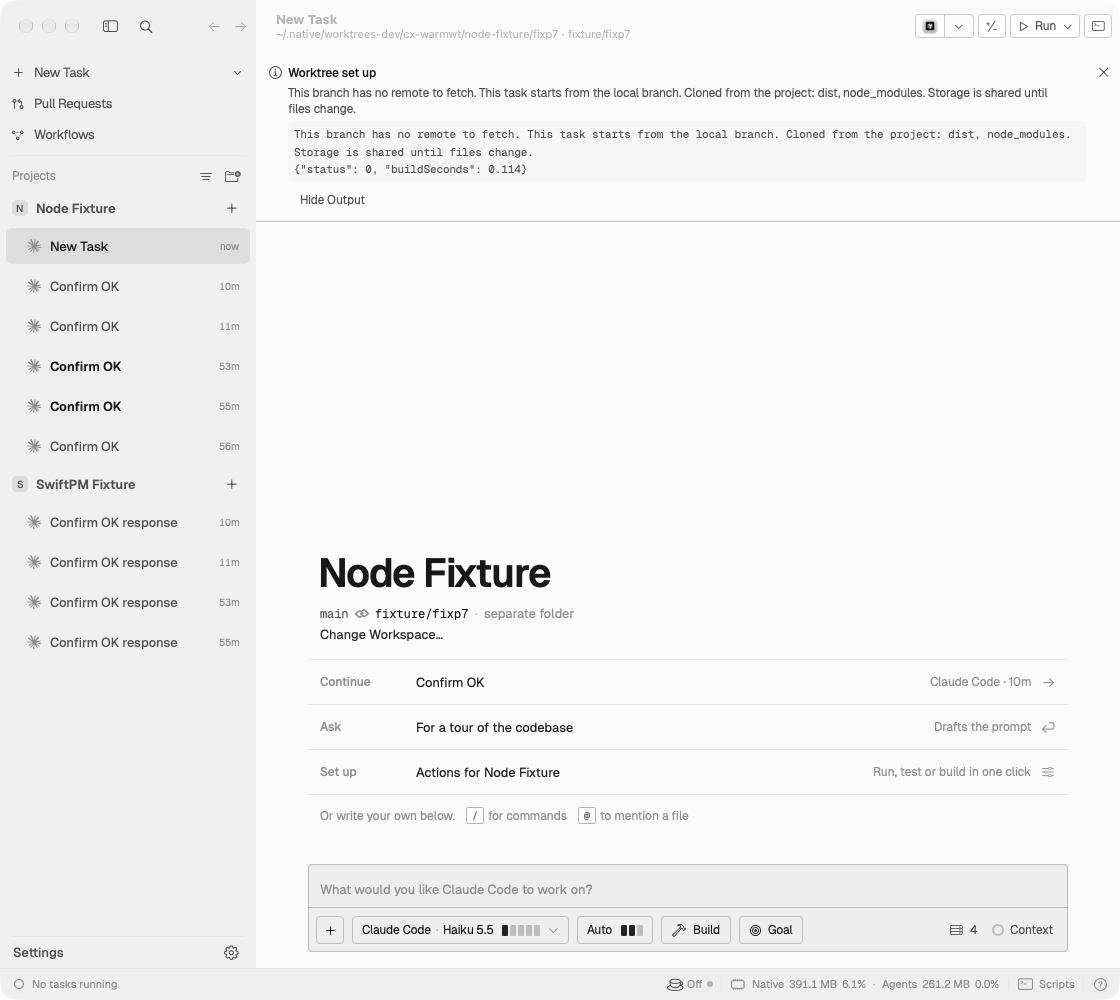
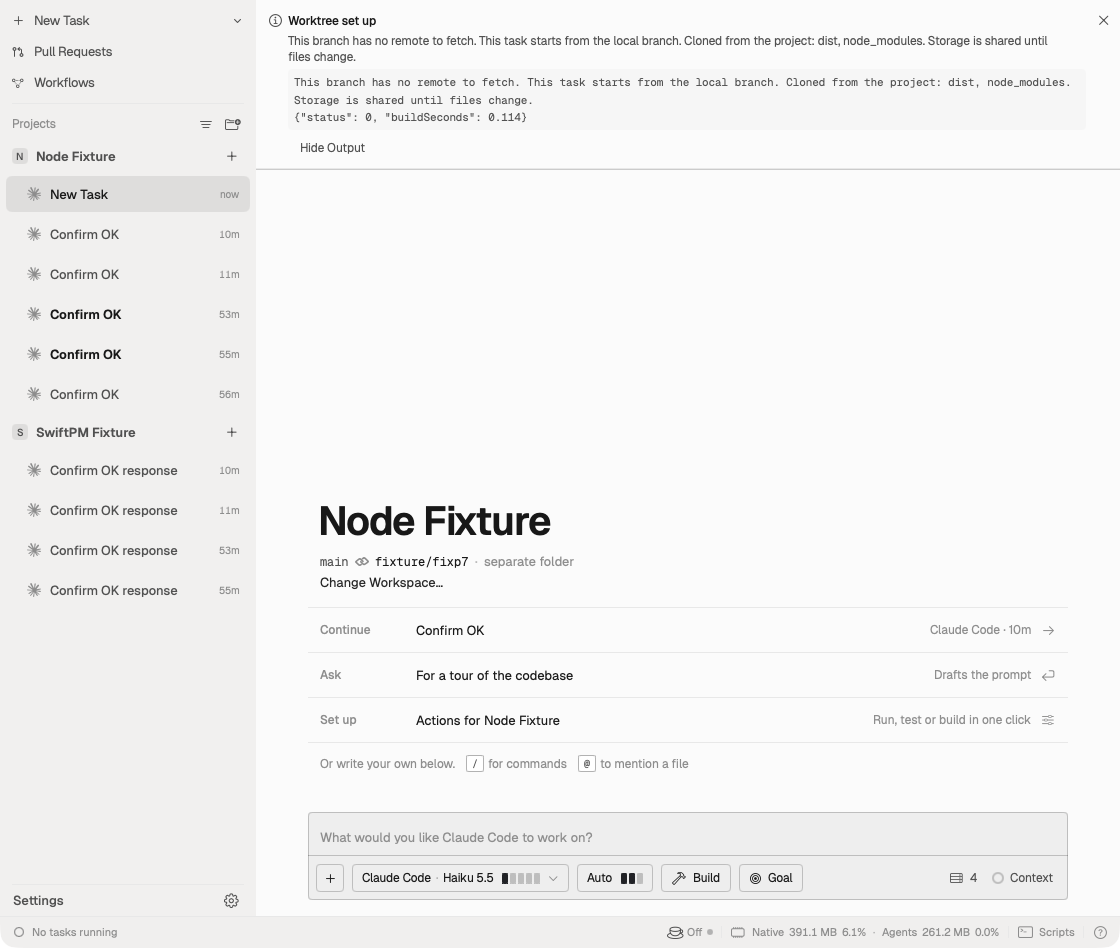
docs(worktrees): finalize verification evidence

diff --git a/feat-warm-worktrees/README.md b/feat-warm-worktrees/README.md
@@ -34,7 +34,7 @@ Sources: [Node fixture](node-fixture.tar.gz), [SwiftPM fixture](swift-fixture.ta
 | Invalid folders and env opt-in | [light](settings-invalid-light.png), [dark](settings-invalid-dark.png) | [light](mock-invalid-light.png), [dark](mock-invalid-dark.png) |
 | Setup editor | [light](settings-editor-light.png), [dark](settings-editor-dark.png) | [light](mock-editor-light.png), [dark](mock-editor-dark.png) |
 
-Task preparation: [live light screenshot](task-ready-light.png), [live dark screenshot](task-ready-dark.png), compared with [ready light preview](notice-ready-light.png) and [ready dark preview](notice-ready-dark.png). The preview isolates the banner and the app screenshot includes its task context.
+Task preparation: [live light screenshot](task-ready-light.png), [live dark screenshot](task-ready-dark.png), compared with [ready light preview](notice-ready-light.png) and [ready dark preview](notice-ready-dark.png). The preview isolates the banner and the app screenshot includes its task context. The task screenshots crop the window title bar to omit generated local paths.
 
 Additional rendered preview states, both schemes: [ready light](notice-ready-light.png), [ready dark](notice-ready-dark.png), [unsupported light](notice-unsupported-light.png), [unsupported dark](notice-unsupported-dark.png), [skipped light](notice-skipped-light.png), [skipped dark](notice-skipped-dark.png), [copy failure light](notice-copy-failure-light.png), [copy failure dark](notice-copy-failure-dark.png). These are fixture renders, not live off-APFS or failure reproduction. The no-copy fallback is forced in an Exec test; no real non-APFS volume was mounted.
 
@@ -42,7 +42,7 @@ The folder editor was exercised with a trailing comma followed by another entry,
 
 ## Validation and limits
 
-Package checks: `nice -n 10 swift test -j 4 --filter WorktreeCloneTests` (7 passed) and `nice -n 10 swift test -j 4 --filter WarmWorktreeTests` (3 passed). Isolated Debug build, repository warning check, setup integration harness and strict formatting passed. See the PR for the final configuration checks.
+Package checks: `nice -n 10 swift test -j 4 --filter WorktreeCloneTests` (7 passed) and `nice -n 10 swift test -j 4 --filter WarmWorktreeTests` (3 passed). Isolated Debug build, repository warning check, setup integration harness and strict formatting passed. Release and Nightly compiled through the build-slot wrapper. Their installed sizes were 119.0 MB and 119.1 MB, and download sizes were 48.8 MB and 48.9 MB, within the existing budgets. See the PR for the final checks.
 
 The iPad typecheck attempt expanded into unrelated app dependencies and reported existing plugin, host, MCP and terminal errors. It was stopped after about 31 minutes; it is not a passing check. None of the captured diagnostics names a changed warm-worktree file. [Captured diagnostics](ios-attempt-diagnostics.txt). The feature defaults off in Labs. No real non-APFS volume or paired iPad host was available for end-to-end cloning. Absolute interpreter links cause Python environment caches to be skipped; use setup to recreate them.
 
